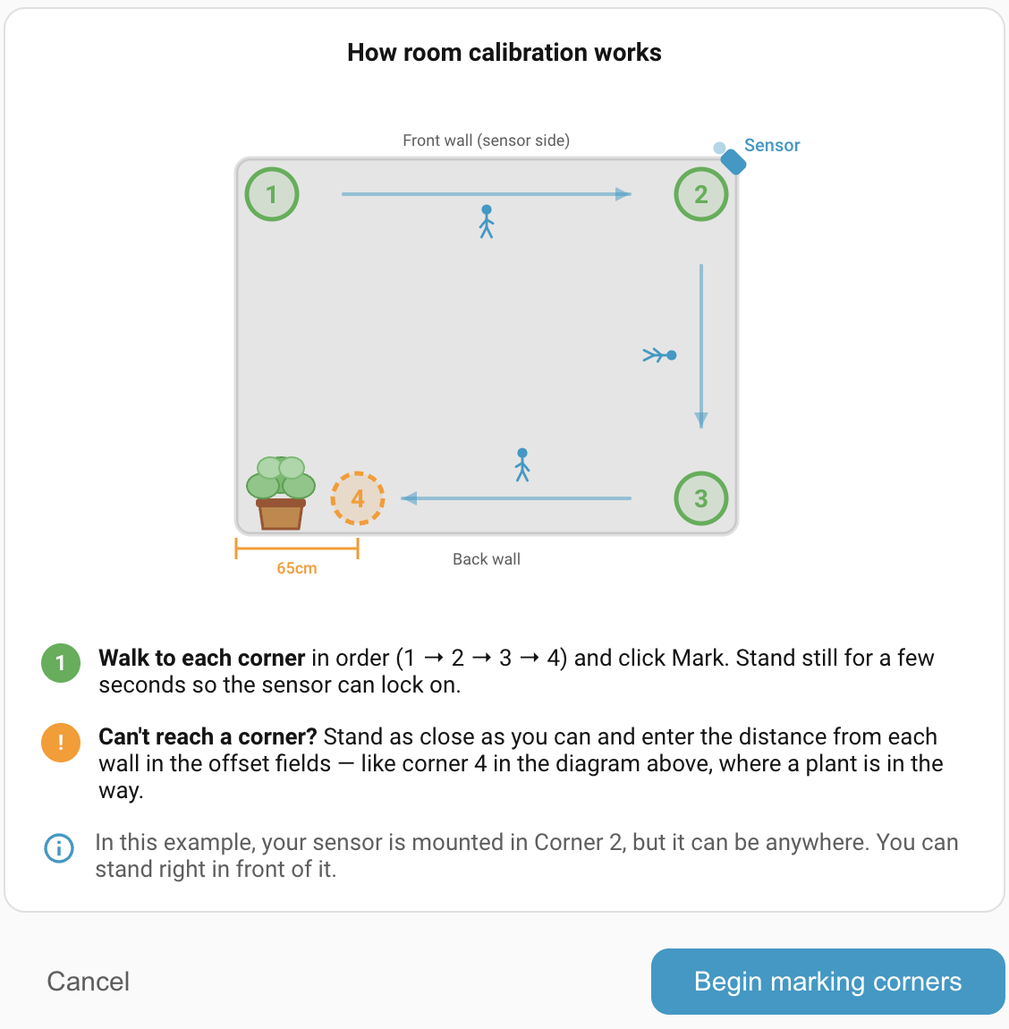
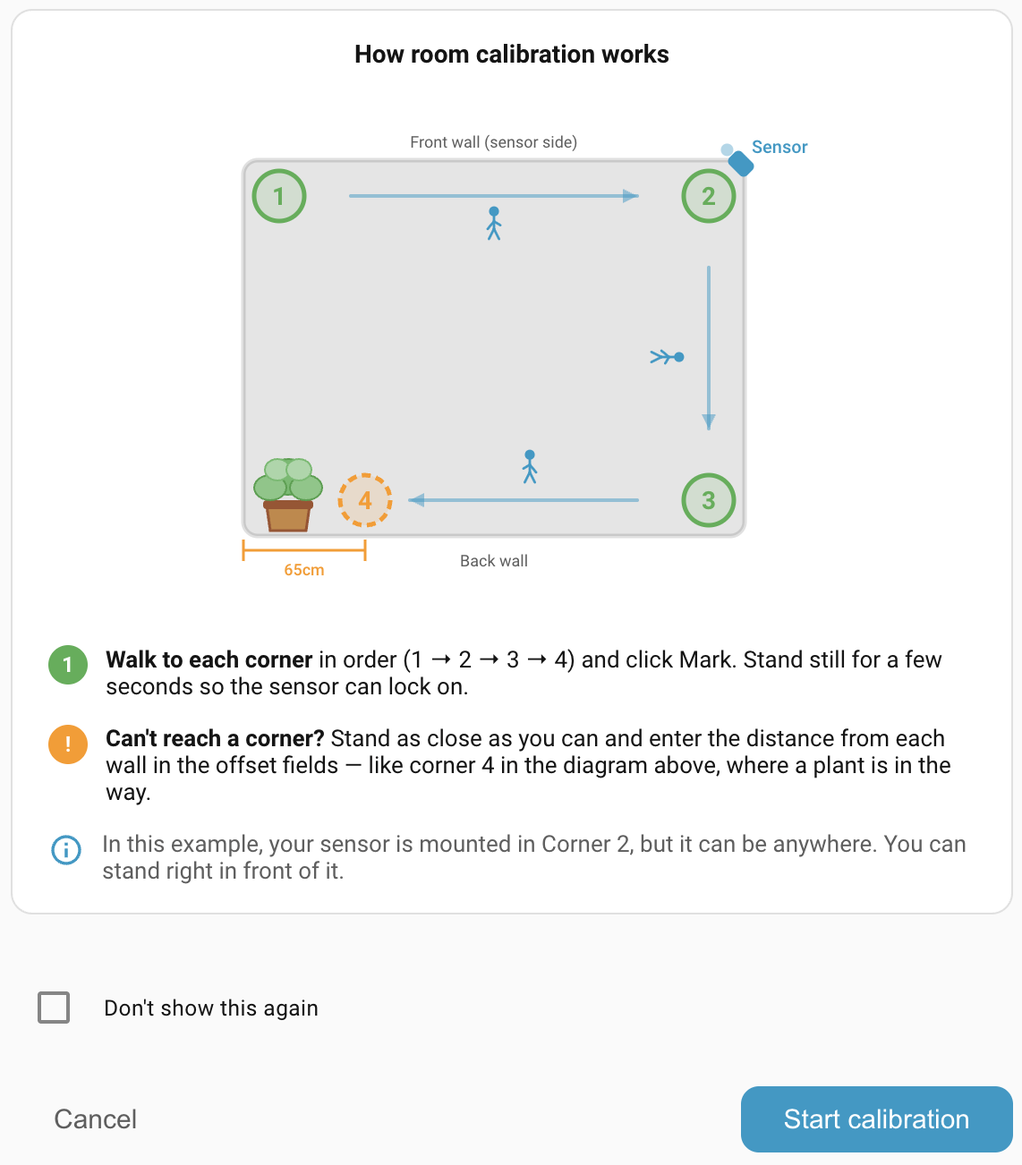
docs: add How detection works page and refresh user guide
New page walks through the zone engine: rolling-median target smoothing,
0-9 signal strength, the Clear/Occupied/Pending state machine, gating,
the three overlay types, the Occupancy entity, and the sensor-assisted
clear that short-circuits long Bed-zone timeouts. Includes Mermaid state
diagram and Occupancy fan-in flowchart.

Also pulls in screenshot refreshes, overlay icon assets, a templates
page stub, and copy tweaks across detection-zones, overlays,
live-overview, calibration, furniture, and troubleshooting.

diff --git a/docs/user-guide/how-detection-works.md b/docs/user-guide/how-detection-works.md
@@ -1,0 +1,152 @@
+# How detection works
+
+This page explains what the zone detection engine does between the radar producing a target and Home Assistant seeing a presence entity flip. You don't strictly need to read it — the defaults work — but understanding the flow helps when you tune zones or chase a misbehaving one.
+
+The engine runs on the device, ten times a second.
+
+## Inputs
+
+Three things feed the engine on every tick:
+
+- **Targets** — the LD2450 mmWave sensor reports up to three targets at roughly 10 frames per second. Each frame gives an `x, y` position in metres for any target it currently sees.
+- **Calibrated grid** — your room is divided into uniform cells. Each cell is either inside the room or outside, optionally belongs to a zone, and may carry an overlay (Entry/Exit, Interference, or Suppress). See [Detection zones](detection-zones.md) and [Overlays](overlays.md).
+- **Auxiliary presence sensors** — the SEN0609 static-presence sensor and the PIR motion sensor produce simple on/off signals. They're independent of the target tracker.
+
+## Smoothing and signal strength
+
+Raw radar positions jitter from frame to frame, even when a person is standing still, and individual frames sometimes drop out entirely. The engine smooths this with a rolling one-second window per target:
+
+- The last second of frames is held in memory.
+- Each tick the engine recomputes the **median** `x` and `y` across the frames in the window in which the target was active. In uses a median rather than a mean so that a single-frame outlier doesn't pull the position. Silent frames don't contribute.
+- The window **slides** — it's not chopped into independent one-second buckets. Each tick adds the newest frame and drops the oldest.
+- The smoothed median position is what the rest of the engine (cell mapping, continuity, gating) operates on.
+
+The LD2450 produces frames at a fixed 10 Hz — one position update per tracked target every 100 ms — and the engine ticks once per frame. So the smoothed position updates ten times a second, but each update is always backed by a full second of measurements. Consecutive ticks share roughly nine-tenths of their input, which is why the position you see on the live overview moves smoothly rather than stepping in one-second jumps.
+
+The same window produces the target's **signal strength** — the 0-9 number shown next to each target dot on the live overview:
+
+| Signal | Meaning |
+| --- | --- |
+| 0 | Not seen in any frame this second |
+| ~5 | Seen in roughly half the frames |
+| 9 | Seen in every frame this second |
+
+Signal is not loudness or distance — it's *how reliably the radar saw the target during the last second*. A target in clear view typically sits at 8 or 9. Half-occluded by furniture, or near the edge of the field of view, you'll see a steadier 4-6. Signal is the LD2450's "I'm sure about this target" score.
+
+The Trigger and Renew thresholds described below use the same 0-9 scale, so a Trigger of 5 roughly means "the target must be seen in at least 5 of the 10 frames in the last second for the zone to activate".
+
+## From target to zone
+
+For each active target the engine:
+
+1. Maps the target's `x, y` to one grid cell.
+2. If the cell is outside the room or marked Suppress, the target is ignored.
+3. If the cell belongs to a zone, that zone is the candidate for "this target is here".
+4. The cell's overlay (if any) and the target's continuity from the previous tick decide whether the candidate gets accepted, gated, or rejected (covered below).
+
+The same loop runs every 100 ms, so a target's zone assignment can change tick by tick as it moves.
+
+## The zone state machine
+
+Each zone has its own state machine. Home Assistant only ever sees two outcomes — *Detected* or *Clear* — but internally there's a third **Pending** state that decides how forgiving the zone is when a target briefly disappears.
+
+```mermaid
+stateDiagram-v2
+    direction LR
+    [*] --> Clear
+    Clear --> Occupied: signal ≥ Trigger
+    Occupied --> Pending: target gone
+    Pending --> Occupied: signal ≥ Renew
+    Pending --> Clear: Presence timeout
+```
+
+Both **Occupied** and **Pending** report as `on` to Home Assistant. The split matters because it lets the engine ride out short dropouts — radar targets routinely vanish for a frame or two — without flapping the entity.
+
+Two thresholds control entry and re-entry:
+
+- **Trigger** — needed to push a *clear* zone into *occupied*. Higher means harder to activate. Defaults vary by zone type (see below).
+- **Renew** — needed to keep an *occupied* zone occupied or pull a *pending* zone back. Always ≤ Trigger, so once a zone is on, less signal sustains it.
+
+The **Presence timeout** is how long a zone sits in *pending* before giving up and clearing.
+
+## Overlays: avoiding ghost activations
+
+A target entering the room via an entrance should appear immediately, but a cell in the middle of a room should not be able to spawn a target out of thin air. When a target first appears in a clear zone *and* it didn't move there continuously from a neighbouring cell *and* the cell is not on an Entry/Exit overlay, the engine *gates* the activation:
+
+- Trigger threshold is raised by 2.
+- Two consecutive ticks (~200 ms) at the raised threshold are required before the zone activates.
+
+This filters out single-frame radar ghosts at the cost of a small entry delay. Cells with an **Entry/Exit** overlay bypass gating entirely — a target appearing at a doorway is almost certainly a real person walking in, not a ghost.
+
+Cells with an **Interference** overlay are stricter still. While the zone is clear, a target that pops up on an interference cell out of nowhere is rejected — it has to have been tracked continuously from a neighbouring cell to count. So the movement of a ceiling fan can't trigger the zone on its own. Once the zone is already occupied, a target on an interference cell can still keep it occupied, but the Renew threshold there is forced to 9 — only a perfect-signal frame counts. Fan blades alone shouldn't sustain the zone; a real person standing under the fan will.
+
+Cells with a **Suppress** overlay are skipped completely. Any target that lands on a suppressed cell is ignored — no zone activation, no continuity tracking, no contribution to signal. As far as the engine is concerned, the cell doesn't exist. Use Suppress for fixed sources that consistently fool the radar and that Interference alone isn't strong enough to silence — robot vacuum docks, plants in a draught, fish-tank pumps. The cost is that you also lose detection of real people standing on those cells, so paint sparingly.
+
+For the engine the effect is much the same as marking the cell as outside the room, but Suppress is for cells that *are* inside your room and you'd like to keep that way visually — without carving holes in the room boundary just to silence one trouble spot.
+
+## Handoff: leaving smoothly
+
+When a target moves from one zone to an adjacent zone, the source zone enters *pending* but uses the shorter **Handoff timeout** instead of the full Presence timeout to clear. The target hasn't disappeared — it just walked next door.
+
+The same shortcut applies when the last target in a zone disappears from an Entry/Exit cell. The engine assumes the person walked out through the doorway and clears the zone in Handoff time rather than Presence time. Without this, a hallway light tied to a Transit zone would stay on for the full presence timeout after someone walks past.
+
+## Zone types as preset bundles
+
+A zone's *type* is a named bundle of the four timing parameters above:
+
+| Type | Trigger | Renew | Presence timeout | Handoff timeout | Use for |
+| --- | --- | --- | --- | --- | --- |
+| **Default** | 5 | 3 | 10 s | 3 s | Generic room areas |
+| **Bed** | 8 | 2 | 600 s | 10 s | Sleeping in bed |
+| **Seating** | 7 | 1 | 30 s | 10 s | Sofas, reading chairs |
+| **Transit** | 3 | 2 | 3 s | 1 s | Hallways, doorways |
+| **Custom** | — | — | — | — | Direct tuning |
+
+Picking **Custom** exposes the four values for direct edit. Picking any other type takes the type's defaults and ignores any custom values you set previously.
+
+## The Occupancy entity
+
+Each device exposes a single **Occupancy** binary sensor that combines everything. It's `on` whenever any of these is true:
+
+```mermaid
+flowchart LR
+    A[Any zone<br/>Detected] --> O((Occupancy<br/>= on))
+    B[Motion sensor<br/>Active or pending] --> O
+    C[Static sensor<br/>Active or pending] --> O
+```
+
+This is the entity to automate against when you just want "is anyone in the room". Even if every named zone is clear, a static-presence reading from the SEN0609 will keep Occupancy `on` — useful for someone sitting still in a chair you didn't paint a Seating zone on.
+
+The motion and static sensors have their own short pending state so a brief PIR dropout doesn't flap Occupancy off and back on.
+
+## Sensor-assisted clear
+
+The Bed zone holds *pending* for ten minutes. That's deliberate — somebody asleep in bed can drop off the radar for whole minutes at a time. But it means a stale *pending* state can keep an Occupancy entity `on` long after the room is actually empty.
+
+The static and motion sensors fix that. The engine watches a specific combination:
+
+- Static-presence sensor: **inactive**, and
+- Motion sensor: **inactive**, and
+- No zone currently *occupied* (only *pending* ones remain).
+
+When all three hold, every *pending* zone is force-cleared immediately, and Occupancy drops to `off`. The reasoning: if neither hardware sensor sees anyone and the radar isn't currently tracking a target, the room is empty — there's nothing to wait for.
+
+!!! note 
+    The static-presence sensor (SEN0609) and PIR have their own timeouts, configurable in [Detection settings](settings/detection.md). When you read "static is inactive" above, that means the sensor's *own* pending state has already expired — not just that the chip currently reports no presence.
+
+## Troubleshooting
+
+| Symptom | Likely cause | Fix |
+| --- | --- | --- |
+| Zone activates briefly when nothing's there | Single-frame ghost slipped past gating | Raise the zone's Trigger threshold, or paint Interference overlay on the cell. |
+| Zone never activates when you walk in | Trigger threshold too high for the signal at that distance | Lower Trigger, or check the [Live overview](live-overview.md) to see what signal that cell reports when occupied. |
+| Bedroom zone stays `on` long after you leave | The Bed type's *pending* state runs for ten minutes; the sensor-assisted clear can only fire once both the static and motion sensors have gone inactive | Lower the **Static sensor timeout** in [Detection settings](settings/detection.md) so the static sensor reports empty sooner. |
+| Occupancy stays `on` with no visible target and no zone glow | The static or motion sensor is still active or in its own pending state, holding Occupancy on by itself | Wait for the sensor to time out, or lower the **Static sensor timeout** in [Detection settings](settings/detection.md). |
+| Occupancy clears too quickly when somebody is sitting still | Static-presence timeout and zone Presence timeout are both shorter than the time the person stays still | Increase **Static sensor timeout** in [Detection settings](settings/detection.md), or set the zone's type to **Seating** (or **Custom** with a longer Presence timeout). |
+
+See also: the [central Troubleshooting](troubleshooting.md) page for conceptual FAQ and how to open a GitHub issue.
+
+## Where to next
+
+- **[Detection zones →](detection-zones.md)** — paint zones and pick a type.
+- **[Overlays →](overlays.md)** — mark doorways and noise sources to refine the engine's behaviour.

diff --git a/docs/user-guide/overlays.md b/docs/user-guide/overlays.md
@@ -1,28 +1,26 @@
 # Overlays
 
-Overlays are an extra layer of information the zone engine uses when interpreting the grid. They don't define where targets are counted — that's zones — but they do change how the engine reacts to appearances, disappearances, and detections in specific cells. This page covers the three overlay types and when to use each.
+Overlays change how the zone engine reacts to radar signals in specific cells. They don't define where targets are counted — that's what [zones](detection-zones.md) do — but they tell the engine whether to trust, doubt, or ignore what it sees. A cell can belong to a zone and carry an overlay at the same time.
 
-## The three overlay types
+There are three overlay types:
 
-Everything Presence Pro Grid has three overlay types, all optional, all independent of zones. A single cell can belong to a zone **and** carry an overlay at the same time.
-
-- **Entry/Exit** — mark doorway cells. Targets that appear or disappear near these cells are classified as expected transitions (someone walking in or out) rather than ghost detections. Zones near doors stop flapping every time someone crosses the threshold.
-- **Interference** — mark cells near noise sources like ceiling fans, billowing curtains, or reflective surfaces. The zone engine raises its thresholds in those cells: targets can't originate there, they need a stronger radar return to sustain occupancy, and instant-entry from the entry/exit overlay is disabled. False positives from fans and curtains go away, while real people still register if they're actually present.
-- **Suppress** — mark cells you want the engine to **ignore entirely**. Unlike Interference (which makes detection harder), Suppress makes it impossible: no target counts, no zone entry, nothing happens in those cells. Use it for regions that produce consistent radar returns with no chance of a real person being there (a swaying plant you can't move, an oscillating fan on a fixed path).
-
-Think of it as a gradient: zones are "pay attention here", Interference is "be sceptical here", Suppress is "don't look here at all".
+| Overlay | Appearance | Purpose |
+| --- | --- | --- |
+| **Entry/Exit** | ![Dark diagonal stripes](../images/overlays/entry-exit.png) | Mark entrances and exits to a room |
+| **Interference** | ![Red diagonal stripes](../images/overlays/interference.png)   | Mark cells near noise sources such as fans or curtains |
+| **Suppress** | ![Red cross-hatch stripes](../images/overlays/suppress.png)  | Mark cells to ignore entirely |
 
 ## Drawing overlays
 
 1. Switch to the **Overlays** editor mode in the sidebar.
-2. Click the overlay-type button you want (Entry/Exit, Interference, or Suppress). That button stays depressed to show which paint mode is active.
-3. Click-and-drag on the grid to paint cells, same interaction as zone painting. The stroke's action (paint or erase) is decided by the first cell you press on: if that cell already has the overlay, the stroke erases; otherwise it paints.
+2. Click the overlay-type button you want (Entry/Exit, Interference, or Suppress). 
+3. Click-and-drag on the grid to paint cells, with the same interaction as zone painting. The stroke's action (paint or erase) is decided by the first cell you press on: if that cell already has the overlay, the stroke erases; otherwise it paints.
 4. Click the active overlay-type button again to exit paint mode.
 
 Only one overlay-type paint mode is active at a time — clicking another overlay type switches to it.
 
 !!! note
-    Overlays only paint on cells that are **inside the room**. Painting a cell outside the room is a no-op — the engine doesn't track anything there anyway. If a cell near a wall refuses to paint, extend the room boundary first via the Room zone in the [Detection zones](detection-zones.md) editor.
+    Overlays only paint on cells that are **inside the room**. If a cell near a wall refuses to paint, extend the room boundary first via the Room zone in the [Detection zones](detection-zones.md) editor.
 
 !!! example "Screenshot placeholder"
     **Overlays sidebar with the three type buttons (Entry/Exit, Interference, Suppress), with Interference active.** `overlays/sidebar-buttons.png`
@@ -30,16 +28,30 @@ Only one overlay-type paint mode is active at a time — clicking another overla
 !!! example "Screenshot placeholder"
     **Grid with entry/exit cells painted across a doorway and an interference region painted around a ceiling fan.** `overlays/mixed-overlays.png`
 
-## When to use each
+---
 
-### Entry/Exit
+## Entry/Exit
+
+### When to use it
 
 - Every door or archway the room opens onto.
 - Windows that are large enough and low enough for someone to climb through, if you want those tracked the same as a door.
 
-The zone engine uses entry/exit cells to decide whether a new target is "a person walking in" (expected event) or "a ghost that just appeared in the middle of the room" (suspicious event — treated as low confidence until the target persists).
+Paint the overlay across the entire walkable area of the opening, not just a single cell at the edge.
 
-### Interference
+### How it affects detection
+
+The Entry/Exit overlay changes two things about how the zone engine handles targets on those cells:
+
+**Instant entry.** Normally, when a target appears in a zone that is currently clear, the engine applies *gating* — it requires two consecutive frames at a raised threshold before it will activate the zone. This guards against transient ghost detections. On an Entry/Exit cell, gating is bypassed: the zone activates immediately on a single frame at the normal trigger threshold. A target appearing at a doorway is almost certainly a real person walking in, not a sensor ghost.
+
+**Faster exit.** When the last target in a zone disappears from a non-overlay cell, the zone waits for the full **Presence timeout** before clearing. When the last target disappears from an Entry/Exit cell, the zone uses the shorter **Handoff timeout** instead. This prevents lights from staying on after someone walks out through a doorway. The default Handoff timeout varies by zone type: 3 seconds for Default zones, 1 second for Transit zones, and 10 seconds for Bed and Seating zones.
+
+---
+
+## Interference
+
+### When to use it
 
 - Ceiling fans and oscillating pedestal fans — the blades produce real radar returns.
 - Curtains and blinds that move in a draught.
@@ -48,24 +60,32 @@ The zone engine uses entry/exit cells to decide whether a new target is "a perso
 
 Interference is the right tool when the cell occasionally has a real person too. A living-room ceiling fan is a classic case: you don't want the fan triggering presence, but you do want to detect someone sitting underneath it.
 
-### Suppress
+### How it affects detection
+
+The Interference overlay makes the zone engine much harder to convince in three ways:
+
+**No first appearance.** A target cannot originate on an interference cell when the zone is clear. It must have been tracked continuously from a clean cell first. Once the zone is already occupied, targets can still be detected on interference cells — the restriction only applies to the initial activation. This prevents a fan from triggering a zone on its own.
+
+**Hardened renew threshold.** When a zone is already occupied, the engine normally uses the zone's configured renew threshold to decide whether a target is still present. On interference cells, the renew threshold is forced to the maximum signal level (9). This means only a very strong radar return — a real person, not fan blades — can sustain occupancy.
+
+**Blocks instant entry.** Even if a cell has both the Entry/Exit and Interference overlays, the instant-entry bypass is disabled. The interference flag takes precedence, so gating still applies.
+
+---
+
+## Suppress
+
+### When to use it
 
 - Plants in stable positions that consistently show up as false targets.
 - Fish tanks, aquarium pumps, or other fixed moving-fluid setups.
 - Robot vacuums parked on their dock.
 - Any cell where you've tried Interference and it wasn't strong enough.
 
-Suppress is a hammer — it blocks detection in those cells entirely. Use it sparingly, and prefer Interference first.
+Suppress is a hammer — it blocks detection entirely. Use it sparingly, and prefer Interference first.
 
-## Interaction with zones
+### How it affects detection
 
-Overlays and zones are independent layers. A cell can be part of a zone *and* carry an overlay — the zone decides which detection events belong to which named region, and the overlay adjusts how the engine reacts to the radar signal itself.
-
-Common combinations:
-
-- A doorway cell is usually part of the Room zone (fallback) **and** carries Entry/Exit.
-- A cell under a ceiling fan might be part of a "Living Room" zone **and** carry Interference.
-- A cell behind a plant might be part of a "Kitchen" zone **and** carry Suppress.
+**Complete rejection.** The zone engine skips suppressed cells entirely. No target tracking, no zone entry, no signal processing — as far as the engine is concerned, nothing exists in those cells.
 
 ## Troubleshooting
 

diff --git a/docs/user-guide/templates.md b/docs/user-guide/templates.md
@@ -1,0 +1,61 @@
+# Templates
+
+A template is a saved snapshot of a room layout — grid, zones, overlays, and furniture — that you can reuse on any device. Useful when you have multiple sensors covering similar rooms (a guest bedroom matching the main bedroom, a stack of identical offices, a cluster of meeting rooms) or when you want to park a configuration before experimenting and roll back cleanly.
+
+Templates are **global to the Home Assistant instance**, not tied to a single device. Save a template from one device, load it on another.
+
+## Saving a template
+
+1. Get the current device's layout how you want it — calibration, zones painted, overlays marked, furniture placed.
+2. Open the sidebar overflow menu (⋯) and click **Save template**.
+3. Enter a name and click **Save**. The template is stored in the integration's storage and appears in every device's Load dialog from that point on.
+
+![Save template dialog.](../images/templates/save-dialog.png "Save template dialog.")
+
+!!! example "Screenshot placeholder"
+    **Overflow menu showing Save template and Load template entries.** `templates/overflow-menu.png`
+
+## Loading a template
+
+1. Open the sidebar overflow menu and click **Load template**. A grid of saved templates appears, each with a thumbnail showing its zones and furniture, and the room's calibrated dimensions.
+2. Click a template card to apply it. The panel immediately replaces the current grid, zones, overlays, and furniture with the template's contents and pushes the new config to the device.
+
+There's no confirmation dialog and no "preview" — clicking a card applies it straight away. If you want to keep the current layout before trying something new, save it as a template first.
+
+!!! example "Screenshot placeholder"
+    **Load template dialog with a grid of thumbnails.** `templates/load-dialog.png`
+
+## Deleting a template
+
+Open the Load template dialog, hover a template card, and click the **×** in the top-right corner. The template is deleted immediately — no confirmation, no undo. Deleting a template only removes it from the library; any device that previously had it applied keeps its current layout.
+
+## What a template contains
+
+| Saved in template | Not saved in template |
+| --- | --- |
+| Room boundary and dimensions (width × depth) | Device calibration (perspective corners) |
+| Zone cells, names, colours, and type | Custom-zone thresholds for *non-custom* zones |
+| Overlays (Entry/Exit, Interference, Suppress) | Device-level settings — motion timeout, target distances, LED behaviour, relay, entity toggles, environmental offsets |
+| Furniture placement | |
+| Custom-zone thresholds for **Custom** zones only | |
+
+A few details worth knowing:
+
+- **Calibration does not transfer.** Template loading skips the four-corner calibration — that's specific to how each individual sensor is mounted in its room. Calibrate each device separately. The template carries the resulting room *dimensions* so the grid lines up, but not the perspective transform.
+- **Zone thresholds behave differently for Custom vs built-in types.** When you save a template, the built-in zone types (Default, Bed, Seating, Transit) store only the type name; the thresholds come from the defaults table at load time. Custom zones, on the other hand, store their four thresholds (Trigger, Renew, Presence timeout, Handoff timeout) explicitly and restore them exactly. If you tune a zone as Custom and expect that tuning to travel with the template, it does.
+- **Device settings are per-device.** Anything configured under [Settings](settings/index.md) — detection timeouts, LED/relay, enabled entities — is not part of the template. Configure those once per device.
+
+## Troubleshooting
+
+| Symptom | Likely cause | Fix |
+| --- | --- | --- |
+| Load template dialog says "No templates" | No template has been saved on this Home Assistant instance yet, or you're looking at a different HA instance | Save a template first from any device. Templates are shared across all devices in the same HA instance. |
+| Template loads but room dimensions don't match the device | The template was saved on a device with a different calibrated room size | Either re-calibrate the device to match, or save a fresh template from the correctly-calibrated device. |
+| Loaded a template but the sensor behaves differently to the source device | Device-level settings (motion timeout, detection thresholds, etc.) aren't part of templates | Match the source device's [Settings](settings/index.md) manually. Only grid, zones, overlays, and furniture travel with a template. |
+| "Template is in an old format — please re-save it" error when loading | Template was saved by a pre-v0.94 version of the integration | Re-create the template from a current device layout. Old templates can't be auto-migrated. |
+
+See also: the [central Troubleshooting](troubleshooting.md) page for conceptual FAQ and how to open a GitHub issue.
+
+## Where to next
+
+- **[Settings →](settings/index.md)** — configure the per-device options that templates don't carry.

diff --git a/docs/user-guide/calibration.md b/docs/user-guide/calibration.md
@@ -19,13 +19,16 @@ The wizard is accessed from the **Live overview** screen on the Device Configura
 
 ![Uncalibrated live overview screen](../images/calibration/uncalibrated.png "Uncalibrated live overview screen")
 
-### 1. Read the positioning guide
+### 1. Read the calibration tutorial
 
 The first screen shows a diagram of a room with the four corners numbered 1–4 and the sensor marked (in the example diagram, the sensor sits at corner 2, but it can be anywhere). Skim the instructions, then click **Start calibration**.
 
-Tick **Don't show this again** before clicking **Start calibration** to skip straight to corner marking on future calibrations. You can re-enable the guide from the integration's options under **Show room calibration tutorial**.
-
 ![How to calibrate room size](../images/calibration/wizard-guide.png "How to calibrate room size")
+
+!!! tip
+
+    Tick **Don't show this again** before clicking **Start calibration** to skip straight to corner marking on future calibrations. You can re-enable the guide from the integration's options under **Show room calibration tutorial**.
+
 
 ### 2. Mark each corner in order
 

diff --git a/docs/user-guide/detection-zones.md b/docs/user-guide/detection-zones.md
@@ -41,6 +41,8 @@ Once calibration is done and the room boundary looks right, add your first named
 - **Recolour** — click the colour swatch next to the zone name; a colour picker appears. Pick a colour that stands out against your other zones; the live overview uses it to shade the zone.
 - **Delete** — click the **×** button on the zone's sidebar row. The zone and its cells disappear; any cells that were in the zone fall back into the Room zone.
 
+![Changing the colour of a detection zone.](../images/detection-zones/colours.png "Changing the colour of a detection zone.")
+
 ## Per-zone settings
 
 The LD2450 target tracker can lose a target when there is no movement for a few seconds, such as happens when the target is asleep in bed. To avoid zone presence sensors flapping states every few seconds, you can specify the type of presence you expect for a particular zone. For instance, you would expect:

diff --git a/docs/user-guide/live-overview.md b/docs/user-guide/live-overview.md
@@ -49,7 +49,7 @@ In the  **Environment** section, you can see the four environmental sensors:
 - **Illuminance** (lux) 
 - **Temperature** (°C)
 - **Humidity** (%)
-- **CO2** (ppm) — the CO2 sensor is an optional extra and may not be installed on your device. You will only see the CO2 reading on the live overview if the chip is present and producing readings.
+- **CO2** (ppm) — the CO2 sensor is an optional extra and may not be installed on your device. You will only see the CO2 reading on the live overview if the chip is present and producing readings. See [Integrate the Carbon Dioxide (CO2) module](https://docs.everythingsmart.io/s/products/doc/integrate-the-carbon-dioxide-co2-module-biegKGfCWu) for the hardware install.
 
 The **Illuminance**, **Temperature**, and **Humidity** entities are enabled by default. The **CO2** entity (and the related **Calibrate CO2 button**) is disabled by default.
 

diff --git a/docs/user-guide/troubleshooting.md b/docs/user-guide/troubleshooting.md
@@ -4,6 +4,10 @@ This page handles the conceptual "why does X behave this way?" questions that do
 
 ## FAQ
 
+**How do I install and configure the CO2 sensor?**
+
+The CO2 module is an add-on board sold separately by Everything Smart Technology. Follow the official integration guide at [docs.everythingsmart.io — Integrate the Carbon Dioxide (CO2) module](https://docs.everythingsmart.io/s/products/doc/integrate-the-carbon-dioxide-co2-module-biegKGfCWu) for the hardware install. Once it's wired up, enable the **CO2** entity on the device page in Home Assistant.
+
 **Why is my CO2 sensor showing `unavailable`?**
 
 The SCD4x CO2 sensor is disabled by default in Home Assistant — enable it on the device page to get readings. It also takes about 5 minutes after power-on to warm up; until then it reports `unavailable` even once enabled.

diff --git a/docs/user-guide/furniture.md b/docs/user-guide/furniture.md
@@ -67,5 +67,6 @@ See also: the [central Troubleshooting](troubleshooting.md) page for conceptual 
 
 ## Where to next
 
+- **[Templates →](templates.md)** — save a room layout so you can reuse it on identical sensors.
 - **[Settings →](settings/index.md)** — tune detection, reporting, environmental offsets, LED and relay behaviour.
 - **[Automations →](automations.md)** — put it all to use with worked examples.
